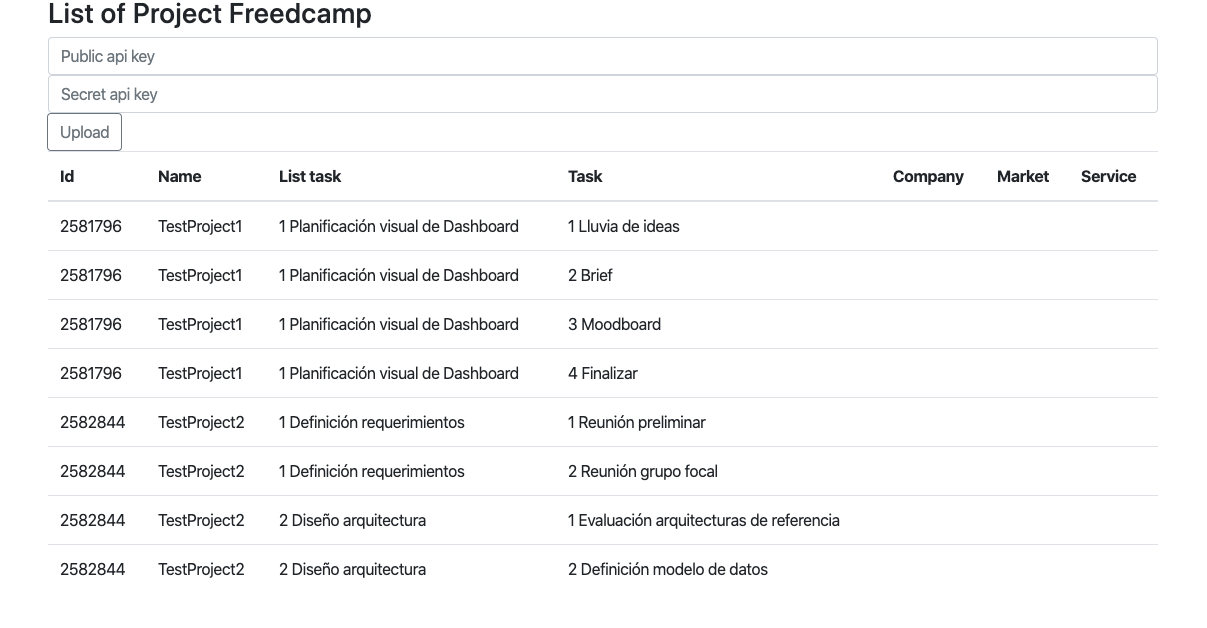
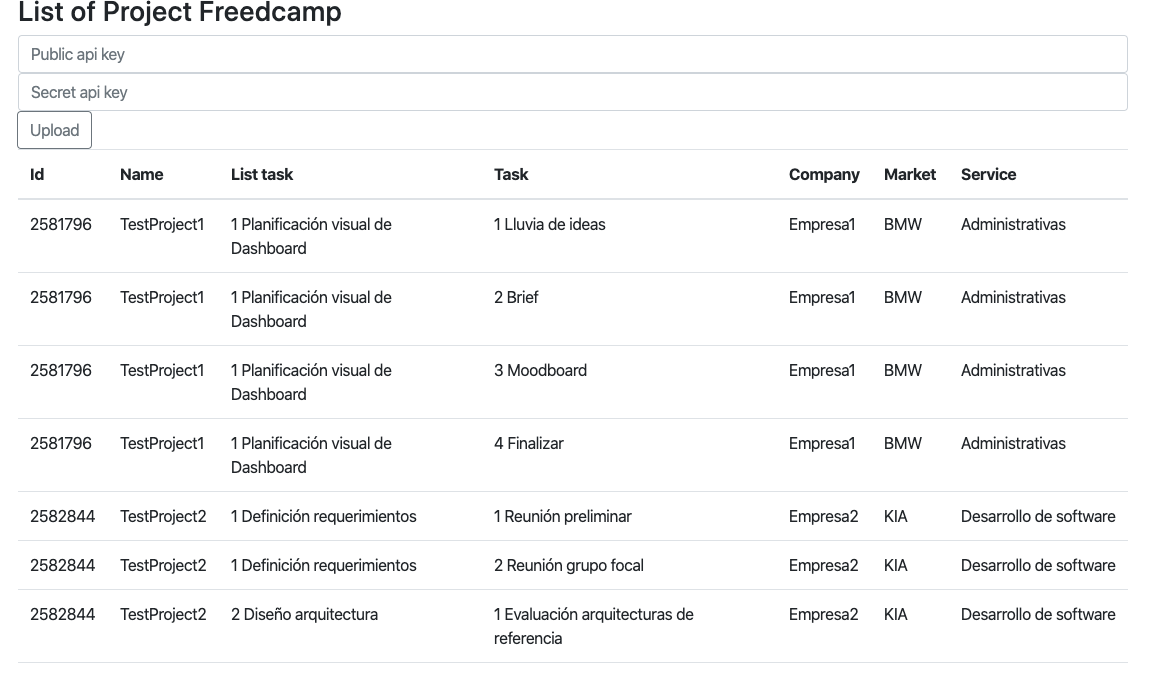
No se encontro, a tiempo para la entrega, la solucion al problema acerca de que no inserta los datos con base al archivo data.sql. En consecuencia, esta modificación carga los datos mediante un metodo.

diff --git a/src/main/java/com/freedcamp/api/controller/ApiController.java b/src/main/java/com/freedcamp/api/controller/ApiController.java
@@ -11,7 +11,13 @@ import org.springframework.web.bind.annotation.RequestParam;
 
 import com.freedcamp.api.dto.ProjectListAllDto;
 import com.freedcamp.api.dto.RequestApiDto;
+import com.freedcamp.api.model.Company;
+import com.freedcamp.api.model.Market;
+import com.freedcamp.api.model.Service;
+import com.freedcamp.api.repository.CompanyRepository;
 import com.freedcamp.api.repository.ProjectRepository;
+import com.freedcamp.api.repository.ServiceRepository;
+import com.freedcamp.api.repository.MarketRepository;
 import com.freedcamp.api.service.RequestApiService;
 
 @Controller
@@ -22,6 +28,17 @@ public class ApiController {
 
 	@Autowired
 	private ProjectRepository projectRepository;
+	
+	@Autowired
+	private CompanyRepository companyRepository;
+
+	@Autowired
+	private MarketRepository marketRepository;
+
+	@Autowired
+	private ServiceRepository serviceRepository;
+
+	private Boolean fillData = true;
 
 	@GetMapping("/upload")
 	public String upload(@RequestParam String apikeypublic, @RequestParam String apikeysecret) {
@@ -36,10 +53,56 @@ public class ApiController {
 
 	@RequestMapping("/")
 	public String index(Model model) {
+		if (fillData) {
+			fillData();
+			fillData = false;
+		}
 		List<ProjectListAllDto> projectListAllDto = projectRepository.ProjectListAllDto();
 		model.addAttribute("projects", projectListAllDto);
 
 		return "index";
+	}
+
+	private void fillData() {
+		Company company = new Company();
+		company.setID_COMPANY(new Long(1));
+		company.setNAME("Empresa1");
+		companyRepository.save(company);
+		company.setID_COMPANY(new Long(2));
+		company.setNAME("Empresa2");		
+		companyRepository.save(company);
+		
+		Market market = new Market();
+		market.setID_MARKET(new Long(1));
+		market.setNAME("BMW");
+		marketRepository.save(market);
+		market.setID_MARKET(new Long(2));
+		market.setNAME("KIA");
+		marketRepository.save(market);
+		market.setID_MARKET(new Long(3));
+		market.setNAME("MINI");
+		marketRepository.save(market);
+		market.setID_MARKET(new Long(4));
+		market.setNAME("VOLVO");
+		marketRepository.save(market);
+
+		Service service =  new Service();
+		service.setID_SERVICE(new Long(1));
+		service.setNAME("Administrativas");
+		serviceRepository.save(service);
+		service.setID_SERVICE(new Long(2));
+		service.setNAME("Soporte tecnico");
+		serviceRepository.save(service);
+		service.setID_SERVICE(new Long(3));
+		service.setNAME("Diseño visual");
+		serviceRepository.save(service);
+		service.setID_SERVICE(new Long(4));
+		service.setNAME("Desarrollo de software");
+		serviceRepository.save(service);
+		service.setID_SERVICE(new Long(5));
+		service.setNAME("Consultoria");
+		serviceRepository.save(service);
+		
 	}
 
 }

diff --git a/src/main/java/com/freedcamp/api/repository/ServiceRepository.java b/src/main/java/com/freedcamp/api/repository/ServiceRepository.java
@@ -1,0 +1,9 @@
+package com.freedcamp.api.repository;
+
+import org.springframework.data.jpa.repository.JpaRepository;
+
+import com.freedcamp.api.model.Service;
+
+public interface ServiceRepository extends JpaRepository<Service, Long> {
+
+}

diff --git a/src/main/java/com/freedcamp/api/repository/MarketRepository.java b/src/main/java/com/freedcamp/api/repository/MarketRepository.java
@@ -1,0 +1,9 @@
+package com.freedcamp.api.repository;
+
+import org.springframework.data.jpa.repository.JpaRepository;
+
+import com.freedcamp.api.model.Market;
+
+public interface MarketRepository extends JpaRepository<Market, Long> {
+
+}
